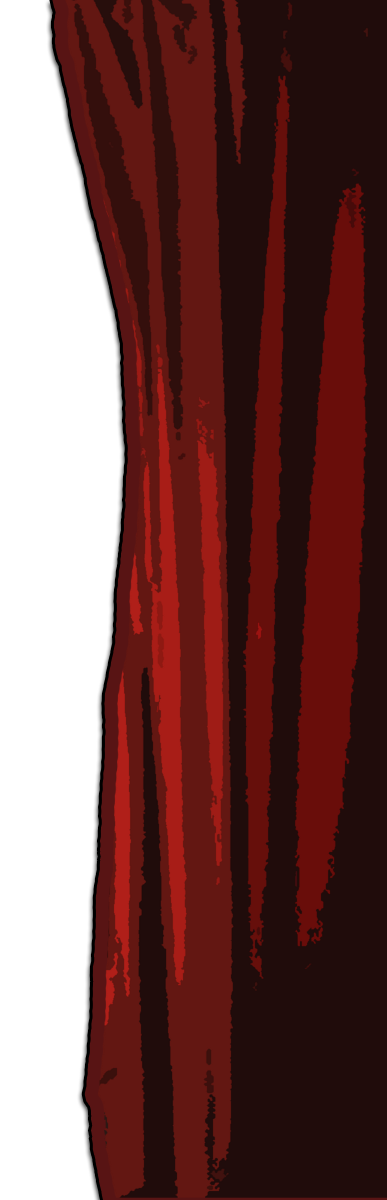
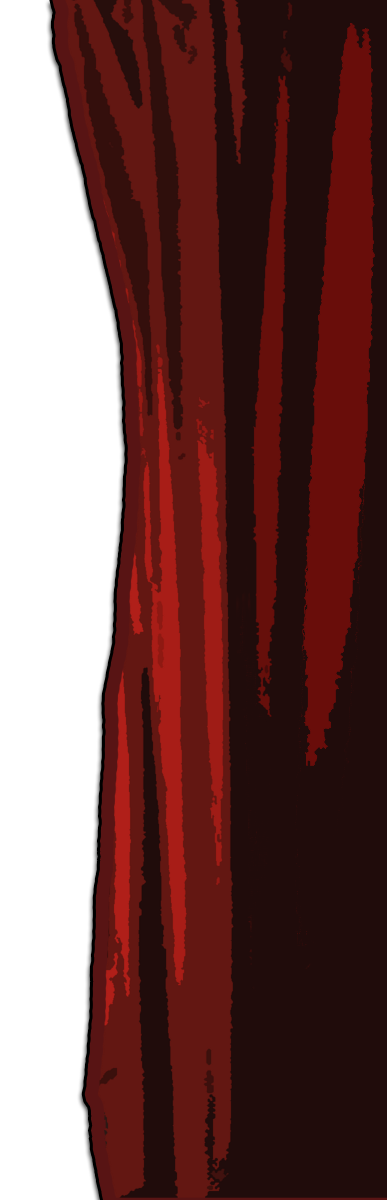
background image on splash; ticket word changes

diff --git a/main/webapp/backstage.html b/main/webapp/backstage.html
@@ -49,7 +49,7 @@
   </header>
 
   <div id="main" role="main" class="clearfix lift:surround?with=default&at=content">
-    <!--<div class="full_screen_image"><img src="/img/vera_backstage.jpg" class="full_screen_image" /></div>-->
+    <!--<div class="full_screen_image"><img src="/img/vera_backstage.jpg" class="full_screen_image"></div>-->
     <div class="splash_backstage">
     </div>
      
@@ -69,7 +69,9 @@
 
     </h1>
     </hgroup>
-
+    <p><font color=white size=1><br>&nbsp; Credits: Front page Drapery by <a href="http://valkiria-stock.deviantart.com/art/drapery-130941603">valkiria-stock</a></br></font></p>
+   
+  
     <!-- Main artifact -->
     
     

diff --git a/main/webapp/artifact.html b/main/webapp/artifact.html
@@ -171,7 +171,7 @@
           </div>
           <div class="flags_right lift:ProcessFlags">
             <a href="#next" id="flag_next">Next</a>
-            <a href="#talk" id="flag_talk">Talk</a>
+            <a href="#talk" id="flag_talk">Discuss</a>
             <a href="#edit" id="flag_edit">Edit</a>
           </div>
         </div>

diff --git a/main/webapp/autobiography.html b/main/webapp/autobiography.html
@@ -84,7 +84,7 @@
           </div>
           <div class="flags_right lift:ProcessFlags">
             <a href="#next" id="flag_next">Next</a>
-            <a href="#talk" id="flag_talk">Talk</a>
+            <a href="#talk" id="flag_talk">Discuss</a>
             <a href="#edit" id="flag_edit">Edit</a>
           </div>
         </div>

diff --git a/main/webapp/notebook.html b/main/webapp/notebook.html
@@ -85,7 +85,7 @@
           </div>
           <div class="flags_right lift:ProcessFlags">
             <a href="#next" id="flag_next">Next</a>
-            <a href="#talk" id="flag_talk">Talk</a>
+            <a href="#talk" id="flag_talk">Discuss</a>
             <a href="#edit" id="flag_edit">Edit</a>
           </div>
         </div>

diff --git a/main/webapp/index.html b/main/webapp/index.html
@@ -120,7 +120,7 @@
       <a href="/contribute.html" id="flag_add">&nbsp;</a>
       </div>
       <div class="flags_right">
-        <a href="/artifact.html" id="flag_next">Next</a>
+        <a href="/artifact.html" id="flag_next">Enter</a>
       </div>
     </div>
   
